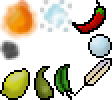
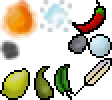
Added a stone particle

Changed region(s): [[0.5893, 0.33, 0.8036, 0.54]]

diff --git a/src/engines/particles.py b/src/engines/particles.py
@@ -34,7 +34,8 @@ class ParticleEngine:
             "feather": FeatherParticle,
             "leaf": LeafParticle,
             "venom": VenomParticle,
-            "lemon": LemonParticle
+            "lemon": LemonParticle,
+            "stone": StoneParticle
         }
 
         self.scrolling_particles = [
@@ -231,5 +232,14 @@ class LemonParticle(Particle):
     def __init__(self, x, y, lifetime, fade_out_time, fade_in_time):
 
         self.image = particle_sprite_sheet.get_image_src_alpha(0, 68, 30, 32)
+
+        Particle.__init__(self, self.image, x, y, lifetime, fade_out_time, fade_in_time)
+
+
+class StoneParticle(Particle):
+
+    def __init__(self, x, y, lifetime, fade_out_time, fade_in_time):
+
+        self.image = particle_sprite_sheet.get_image_src_alpha(68, 34, 20, 20)
 
         Particle.__init__(self, self.image, x, y, lifetime, fade_out_time, fade_in_time)
